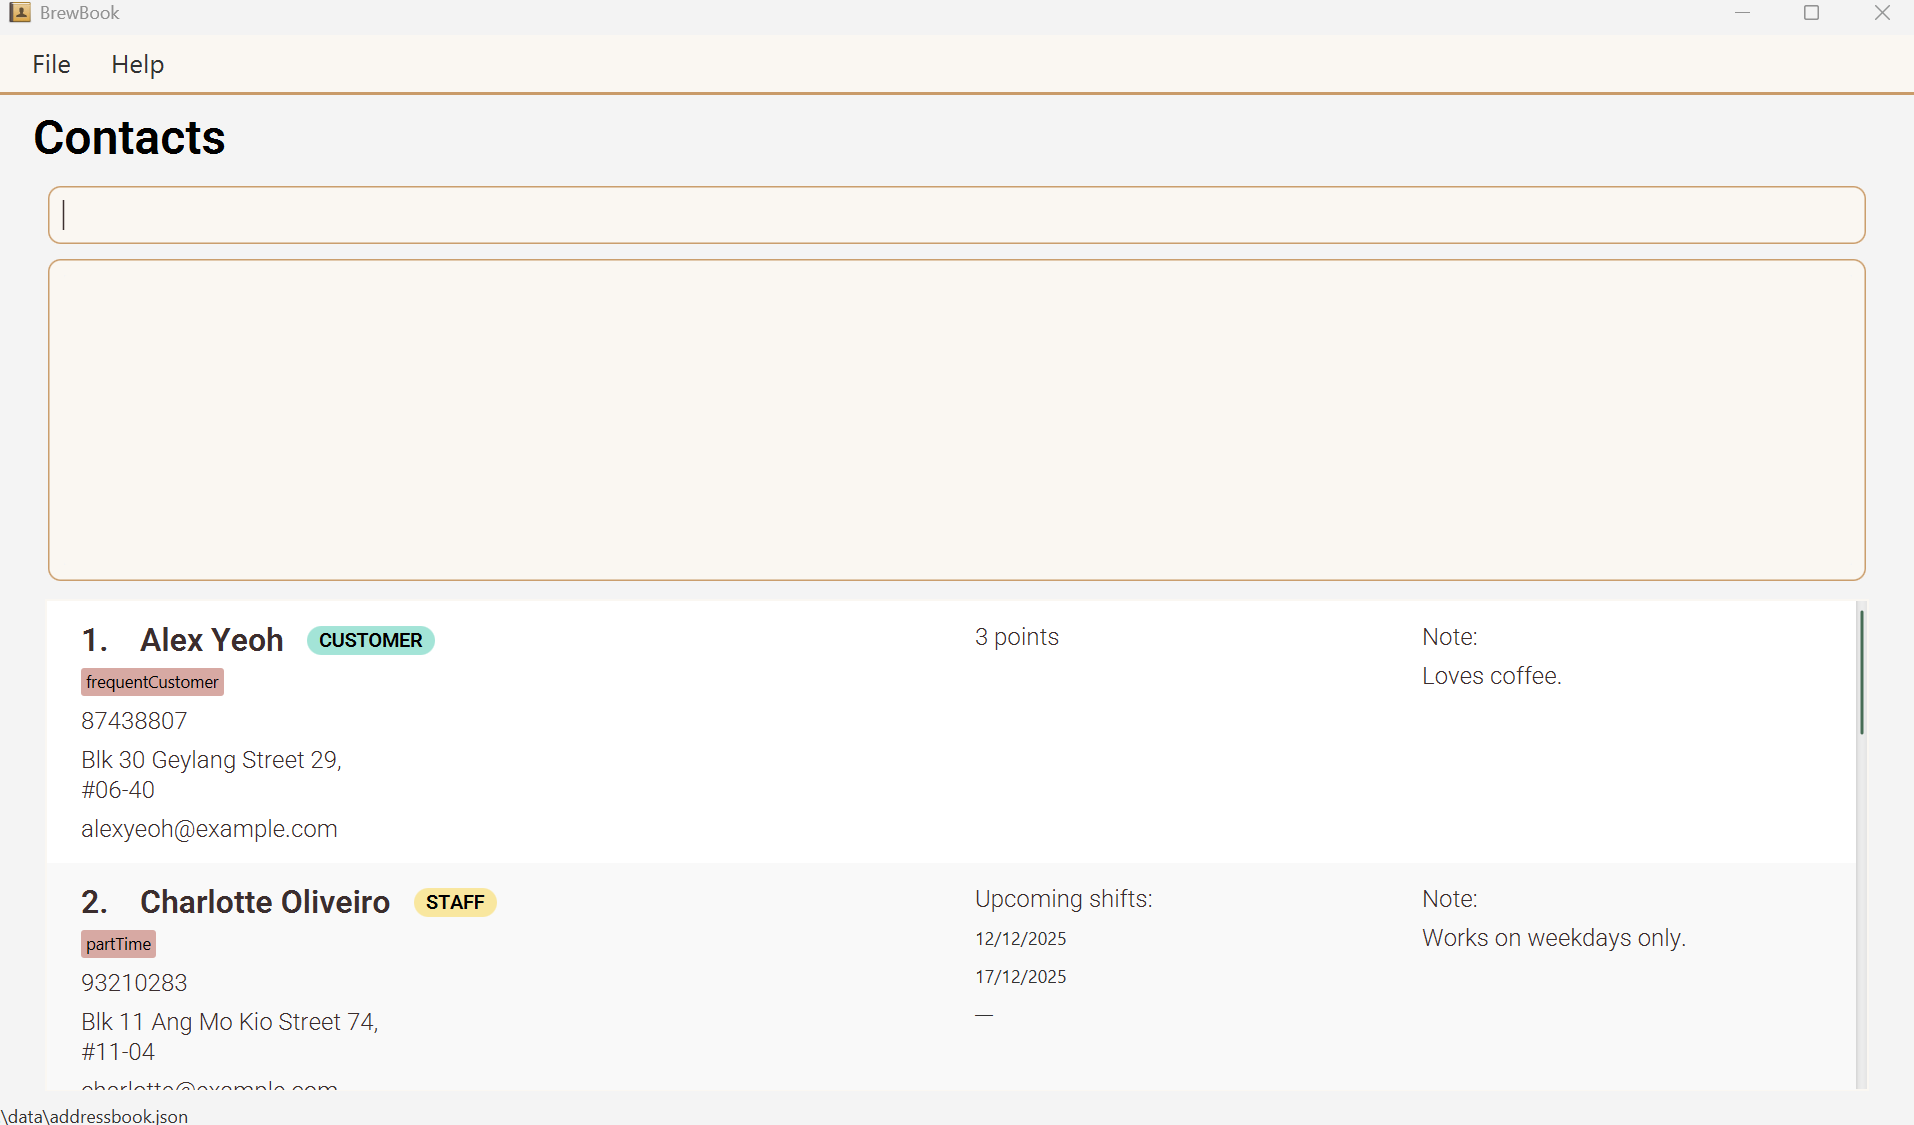
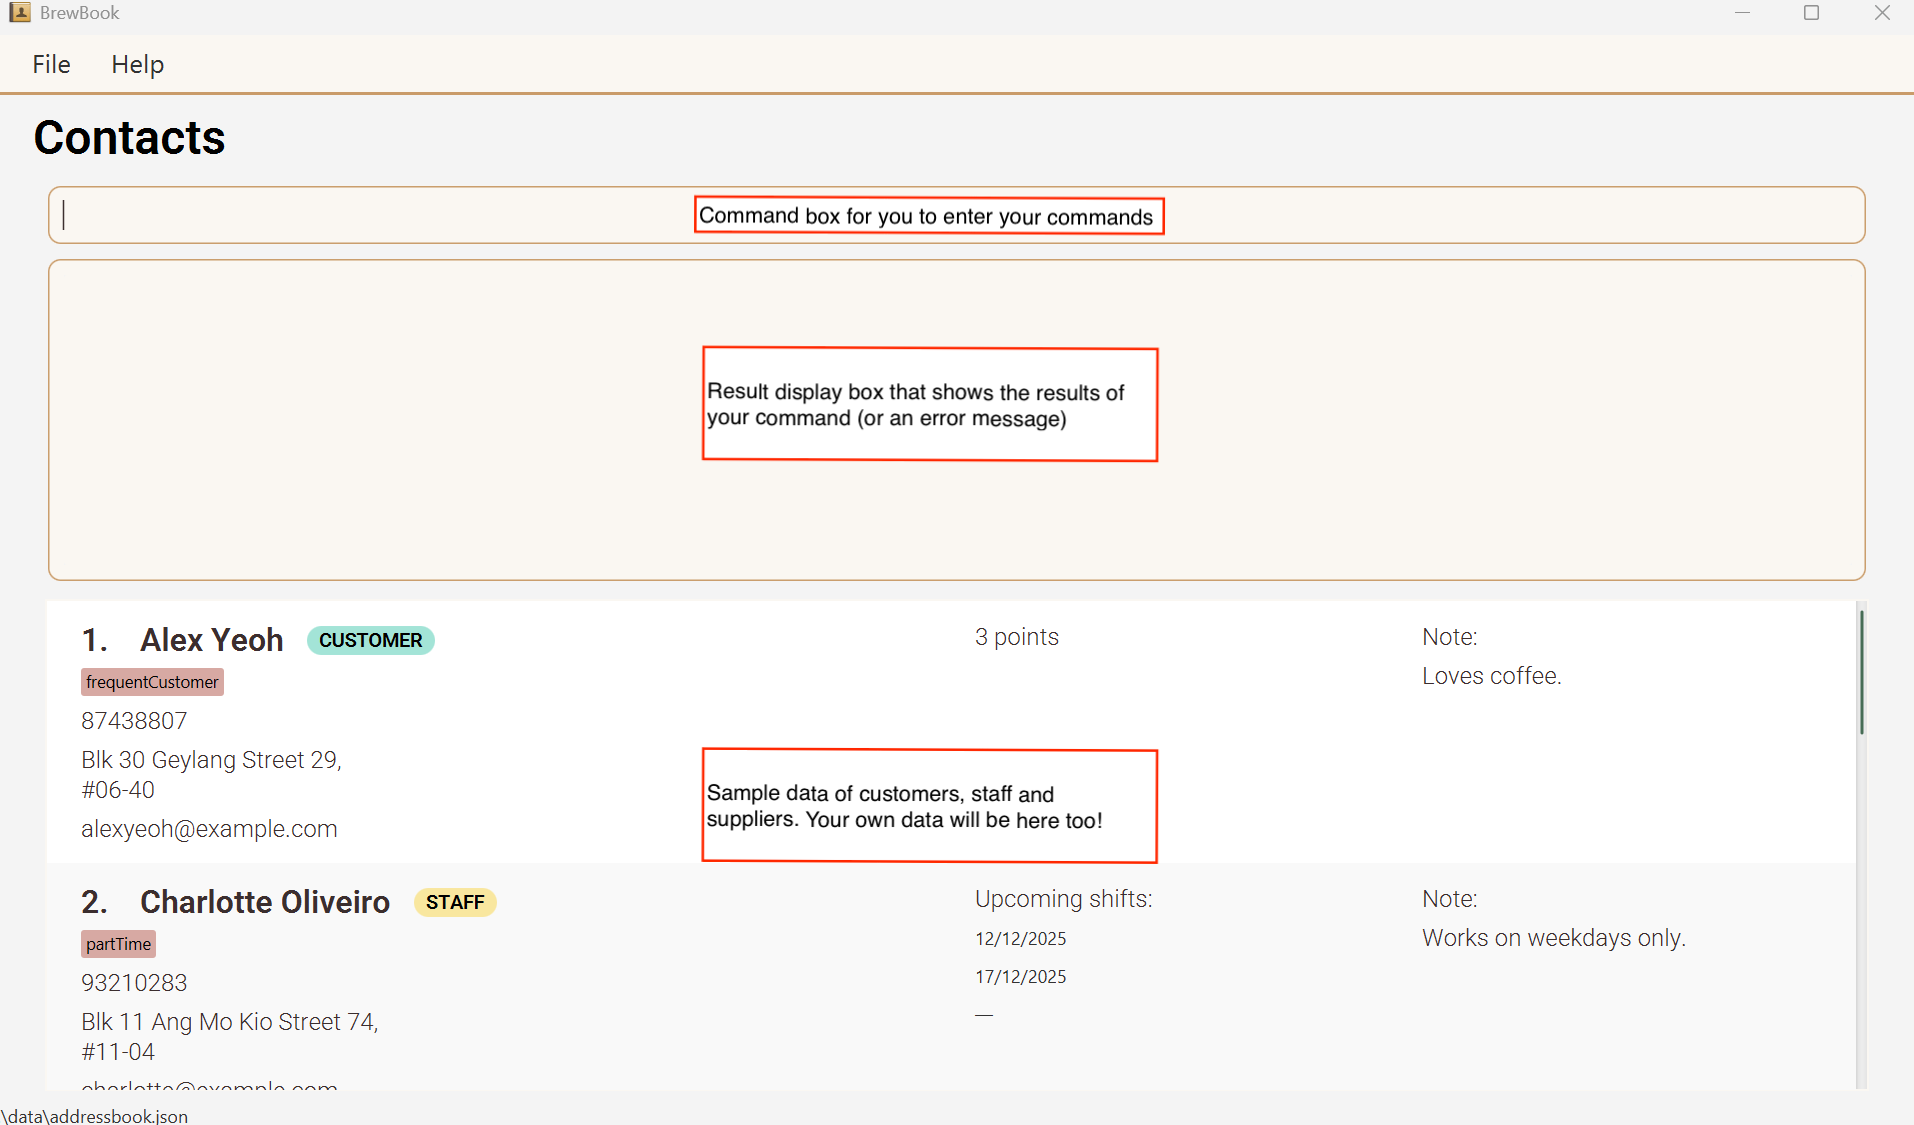
Update UG

diff --git a/docs/UserGuide.md b/docs/UserGuide.md
@@ -4,19 +4,20 @@ title: User Guide
 ---
 
 **Welcome to BrewBook! Your café’s command center.**
-<br>Running a small café means juggling suppliers, staff, and loyal customers. BrewBook helps you keep all these relationships organized in one place.
+<br>Running a small café means juggling suppliers, staff, and loyal customers. BrewBook helps you keep all these relationships organized in one place - no complex menus to click through, just type what you need.
 
 - **Suppliers**: Track who provides your beans, pastries, or equipment, and keep their details handy for quick reorders.
 - **Staff**: Store schedules, roles, and contact info so you can coordinate shifts effortlessly.
 - **Customers**: Record regulars’ preferences, loyalty points or note down catering contacts to strengthen relationships.
 
-Optimized for use via a Command Line Interface (CLI) while still having the benefits of a Graphical User Interface (GUI). If you can type fast, BrewBook can get your contact management tasks done faster than traditional GUI apps.
+**Why BrewBook is different**: Instead of clicking through multiple menus, you simply type short commands (like "add customer" or "list all"). Once you get the hang of it, this is much faster than traditional apps - especially if you're already comfortable typing.
 
 ---
 
 # Table of Contents
 [How to use this guide](#how-to-use-this-guide)<br>
 [Quick start](#quick-start)<br>
+
 [Features](#features)<br>
 [FAQ](#faq)<br>
 [Known issues / Troubleshooting](#known-issues--troubleshooting)<br>
@@ -27,7 +28,7 @@ Optimized for use via a Command Line Interface (CLI) while still having the bene
 This User Guide is designed to help you get the most out of BrewBook. You don't need to read it cover-to-cover,
 instead we recommend you use it like a reference:
 
-- **New users**: Start with the **Quick start** section. It walks you through installation, setup, and your very first commands.
+- **New users**: Start with the **Quick start** section. It walks you through installation, setup, and your very first commands. It also includes a quick tutorial to the Command-Line Interface (CLI). 
 - **Everyday use**: Jump to the **Features** section whenever you want to learn a specific command. Each command has:
     - A short description of what it does.
     - The exact format you need to type.
@@ -98,32 +99,58 @@ Let’s check whether it’s already installed on your computer.
 ---
 ## Step 3: Set up your BrewBook folder
 
-1. Create a new folder anywhere you like — for example:
+1. Create a new folder somehwere easy to remember — for example:
     - **Windows:** `C:\Users\Jean\Documents\BrewBook`
     - **macOS:** `/Users/Jean/Documents/BrewBook` or `~/Documents/BrewBook`
     - **Linux:** `/home/Jean/Documents/BrewBook`
+    - The above is the folder path if you go to your `Documents` folder and create a new folder called `BrewBook`. 
 2. Move the downloaded **`BrewBook.jar`** file into that folder.
    BrewBook will automatically save your data there each time you use it.
 
 ---
 ## Step 4: Open BrewBook
-
-1. Open your **Command Prompt** or **Terminal**
-2. Type `cd [folderpath]` to navigate to where your BrewBook.jar file exists.
-   > If your .jar file is in the`Users\(name)\Downloads` directory and you are currently in `Users\(name)`,
-   > you should type `cd Downloads` in the **Command Prompt** or **Terminal**.
+![Terminal.png](../../Downloads/Terminal.png)
+1. Open your **Command Prompt** or **Terminal**. The picture above is what your terminal should look like (though it may differ slightly depending on whether you're using a Mac or a Windows). 
+2. Type `cd` followed by the folder path where you saved the BrewBook app and press **Enter**. You'll know it worked when the folder name appears in your terminal prompt.
+   > If you created the folder in Documents, you should type `cd Documents/BrewBook` and press enter. 
+   > You can also copy the folder path from Step 3 and paste it after `cd`.
 3. Type `java -jar BrewBook.jar` and BrewBook will now open to its' landing page populated with sample data for your easy reference.
 
 ![Ui](images/Ui.png)
 
 Now you’re ready to start managing your café contacts!
 
----
-## Step 5: Try out a few simple commands
+# CLI Tutorial
+New to typing commands? Don't worry! This guide will teach you how to use BrewBook's command box. Once you learn these basics, you'll be able to manage contacts in seconds instead of minutes.
 
-BrewBook uses a **command box** — just type a command exactly as shown below and press **Enter**.
-Here are a few examples you can try:
+## What is BrewBook's CLI?
+BrewBook uses a Command Line Interface (CLI) through the command box at the top of the app window. Instead of clicking through menus, you simply type what you want to do and press Enter. If you can type fast, this is much quicker than traditional point-and-click apps!
 
+## Understanding Command Structure
+_The **command box** is at the top of the BrewBook window. This is where you key in your commands - just click on it, type your command, and press **Enter**!_
+BrewBook commands follow a simple pattern: `COMMAND PREFIX/VALUE PREFIX/VALUE ...`
+* `COMMAND` = what you want to do (e.g. add a new customer, delete a staff)
+* `PREFIX` = a field type (e.g. name, phone number, email)
+* `VALUE` = the value of the field indicated by the prefix just before it
+
+For example, to add a customer, you would use `add customer n/John Doe p/98765432 e/johnd@example.com a/311, Clementi Ave 2, #02-25`
+
+Let's break this down: 
+* `add customer` = COMMAND
+* `n/` = PREFIX for name
+* `John Doe` = VALUE for name
+* `p/` = PREFIX for phone
+* `98765432` = VALUE for phone
+
+You'll learn more about the allowed prefixes for each person type later on! Also, the order of the `PREFIX/VALUE`s do not matter - the given samples are just a guide. 
+
+## Understanding Responses
+_The **result display box** is right below the command box. This is where BrewBook replies to your inputs. There are 3 main types of responses that BrewBook can give: _
+* **Success Message**: "New person added: John Doe..." 
+* **Summary Message**: Shows a breakdown of your important dates and items supplied (e.g. "Important dates summarised: 12/12/2025...") 
+* **Error Message**: "Invalid command format! Format: ..."
+
+## Sample Commands
 | Action | What to Type                                                                                                                                  | What It Does                                          |
 |--------|-----------------------------------------------------------------------------------------------------------------------------------------------|-------------------------------------------------------|
 | Open help window | `help`                                                                                                                                        | Shows a short guide on using BrewBook                 |
@@ -180,12 +207,12 @@ Explore the [Features](#features) section below for a full list of commands and 
 * Command words are case-insensitive.
   e.g `list all` and `LIST all` are both valid ways to use the list command and will work successfully.
 
-* If you are using a PDF version of this document, be careful when copying and pasting commands that 1 multiple lines as space characters surrounding line-breaks may be omitted when copied over to the application.
+* If you are using a PDF version of this document, be careful when copying and pasting commands that span multiple lines as space characters surrounding line-breaks may be omitted when copied over to the application.
 </div>
 
 <div markdown="1" class="alert alert-warning">:exclamation: **Generic constraints for fields:**
 - Name must not exceed 48 characters.
-- Name does not allow special characters. You may spell them in full instead (i.e s/o -> son of)
+- Name does not allow special characters. You may spell them in full instead (e.g., s/o → son of, & → and).
 - Name must not be a duplicate (i.e must not already exist in BrewBook).
 - Phone number must not be less than 3 digits.
 - Days and Shifts date must be in the future.
@@ -233,8 +260,8 @@ Adds a customer to BrewBook and returns to `list all` view.
 </div>
 
 <div markdown="1" class="alert alert-warning">:exclamation: **Constraints:**
-- Points has a maximum value of 2147483647. Values higher than this will be interpreted as an invalid negative number.
-- Unable to add a person as multiple types. (i.e. If John is added as a customer, you cannot add him again as a supplier)
+- Points has a maximum value of 2147483647. Values higher than this will not be allowed.
+- Unable to add a person as multiple types. (i.e. If `John` is added as a customer, you cannot add another person called `John` again as a supplier). 
 </div>
 
 [Back to Features](#features)
@@ -289,7 +316,7 @@ Adds a supplier to the BrewBook and returns to `list all` view.
 * If a valid format but incorrect date for Days is inputted (e.g 29/2/2026, a non-leap year), then BrewBook will automatically find the next nearest valid date to replace it (28/2/2026).
 * If you need to add duplicate numbers for a supplier (i.e. Company contact hotline), this will be a valid input!
 * If you want to preserve past days records, you should make copies of the .json file and archive it before the day is deleted! See how to do it in FAQ.
-
+</div>
 <div markdown="1" class="alert alert-warning">:exclamation: **Constraint:**
 - Unable to add a person as multiple types. (i.e. If John is added as a supplier, you cannot add him again as a customer).
 </div>
@@ -326,7 +353,7 @@ Edits an existing person in BrewBook and returns to `list all` view.
 ![edit customer success](images/editResult.png)
 *Figure: Result from executing `edit 1 n/Alex` when the name was originally Alex Yeoh*
 
-**Format**: `edit INDEX [n/NAME] [p/PHONE] [e/EMAIL] [a/ADDRESS] [notes/NOTE] [points/POINTS] [shifts/SHIFT[, SHIFT]..] [items/ITEM[, ITEM]...] [days/DAY[, DAY]...] [t/TAG]…`
+**Format**: `edit INDEX [n/NAME] [p/PHONE] [e/EMAIL] [a/ADDRESS] [notes/NOTE] [points/POINTS] [shifts/SHIFT[, SHIFT]...] [items/ITEM[, ITEM]...] [days/DAY[, DAY]...] [t/TAG]...`
 
 **Examples**:
 *  `edit 1 p/91234567 e/johndoe@example.com` edits the phone number and email address of the 1st person to be `91234567` and `johndoe@example.com` respectively.
@@ -339,9 +366,9 @@ Edits an existing person in BrewBook and returns to `list all` view.
 
 <div markdown="1" class="alert alert-warning">:exclamation: **Constraints:**
 - The index must be a positive integer.
-- At least one optional fields must be provided.
+- At least one optional field must be provided.
 - Editing `tags`/`shifts`/`items`/`days`, the existing fields of the person will be removed (i.e adding is not cumulative).
-- For type specific tags like `shifts`, `items`, `days`, and `points`, you can only edit them if the person type corresponds to these tags. (i.e You can only edit `points` for a person of type customer, if person is of type staff it will not work)
+- For type specific tags like `shifts`, `items`, `days`, and `points`, you can only edit them if the person type corresponds to these tags (i.e You can only edit `points` for a person of type customer, if person is of type staff it will throw an error message telling you that `/points` is invalid for this contact type).
 </div>
 
 [Back to Features](#features)
@@ -385,6 +412,11 @@ Finds contacts whose fields contain the given keywords using AND search.
 [Back to Features](#features)
 
 ---
+<div markdown="1" class="alert alert-warning">:exclamation: **Constraints:**
+- Real-World Impact: Deleting a contact by mistake means you might lose all your saved data. Always double-check the contact name before deleting. 
+- This action cannot be undone. We recommend that you make frequent backups to guard against accidental deletes (see FAQ Q3).
+</div>
+
 ## Deleting contacts : `delete`
 
 Deletes the specified person or people from BrewBook.
@@ -396,7 +428,7 @@ Deletes the specified person or people from BrewBook.
 
 **Examples**:
 * `list all` followed by `delete 2` deletes the 2nd person in the BrewBook.
-* `find alex` followed by `delete 1, 2` deletes the 1st & 2nd person in the BrewBook following the index of the new list.
+* `find alex` followed by `delete 1, 2` deletes the 1st and 2nd person in the BrewBook of the new list.
 
 <div markdown="1" class="alert alert-success">:bulb: **Tip:**
 - If you accidentally type the same number (i.e `delete 2, 2`), don't worry! BrewBook will recognise that you only want to delete contact number 2 and only delete 2.
@@ -452,6 +484,10 @@ Displays all staff's shift and supplier's days.
 [Back to Features](#features)
 
 ---
+<div markdown="1" class="alert alert-warning">:exclamation: **Constraints:**
+- This Deletes Everything: All your customers' loyalty points, staff schedules, and supplier information will be permanently erased. 
+- This action cannot be undone. Make a backup first if you still want to keep your data(see FAQ Q3).
+</div>
 ## Clearing all entries : `clear`
 
 ![clear](images/clearResult.png)
@@ -463,11 +499,6 @@ Clears all entries from the BrewBook.
 
 **Example**:
 - `clear` deletes all entries from the BrewBook.
-
-<div markdown="1" class="alert alert-warning">:exclamation: **Constraints:**
-- The clear command deletes all contacts in BrewBook.
-- This action cannot be undone.
-</div>
 
 [Back to Features](#features)
 
@@ -505,58 +536,45 @@ BrewBook data are saved automatically as a JSON file `[JAR file location]/data/b
 --------------------------------------------------------------------------------------------------------------------
 # FAQ
 
-**Q**: How do I transfer my data to another computer?<br>
-**A**: You can transfer your data by following the steps below.
+**Q1**: Where is my data stored?<br>
+**Ans**: BrewBook stores data in a file called `brewbook.json`. This is located in the folder called `data`, in the same folder where you placed your `BrewBook.jar` file while setting up.
+![DataFile.png](images/DataFile.png)
+
+**Q2**: How do I transfer my data to another computer?<br>
+**Ans**: You can transfer your data by following the steps below.
 1. Install BrewBook on the new computer.
 2. Launch it once to generate a fresh data file.
-3. Locate the data file on your old computer (usually in the BrewBook home folder).
-4. Copy that file to the new computer and overwrite the newly created one.
+3. Locate `brewbook.json` on your old computer (refer to _Q1_ for more details on how to find it).
+4. Copy that file to the new computer in the `data` folder.
 
-<a id="archive-data"></a>
-**Q**: How do I archive my data since shifts and days get auto-deleted?<br>
-**A**: You can archive your data by following the steps below.
-1. Create an archive folder to place this data file.
-2. Locate the data file called brewbook.json in your computer (usually in the folder called `data` where you placed your BrewBook file).
-3. Copy that file into the archive folder you previously created.
+**Q3**: How do I backup/archive my data since shifts and days get auto-deleted?<br>
+**Ans**: You can archive your data by following the steps below.
+1. Locate `brewbook.json` (refer to _Q1_ for more details on how to find it).
+2. Create an archive folder to place `brewbook.json`. Copy `brewbook.json` into the folder. **OR** Save `brewbook.json` to a cloud drive.
 
+**Q4**: What happens if I accidentally run `clear`?<br>
+**Ans**: All data will be permanently deleted. There is no undo. To prevent data loss, backup your data regularly (refer to _Q3_ for more details).
 
-**Q**: What happens if I accidentally run `clear`?<br>
-**A**: All data will be permanently deleted. There is no undo.
-**To prevent data loss:**
-- Before using `clear`, locate your data file and make a backup copy.
-- Store the backup in a safe folder or cloud drive.
+**Q5**: Can I undo a delete command?<br>
+**Ans**: No. Once an entry is deleted using `delete`, it cannot be recovered. To prevent data loss, backup your data regularly (refer to _Q3_ for more details).
 
-
-**Q**: Where is my data stored?<br>
-**A**: BrewBook stores data in a local file inside the same folder as your BrewBook.jar.
-
-
-**Q**: Can I undo a delete command?<br>
-**A**: No. Once an entry is deleted using `delete`, it cannot be recovered.
-**To avoid accidental deletes:**
-- Back up/archive your data file regularly.
-
-
-**Q**: Why isn’t my command working?<br>
-**A**: Please check the following.
+**Q6**: Why isn’t my command working?<br>
+**Ans**: Please check the following.
 - Check that your command follows the correct format.
 - Make sure required fields like `n/`, `p/`, or `e/` are included.
 - Use `help` to view all available commands and examples on how to use them along with their constraints.
 
+**Q7**: Can I add multiple tags or items at once?<br>
+**Ans**: Yes. Please refer to the [Add Command](#adding-a-customer-add-customer) sections to see how to do it.
 
-**Q**: Can I add multiple tags or items at once?<br>
-**A**: Yes. Please refer to add commands to see how to do it.
-
-
-**Q**: What date format should I use?<br>
-**A**: Use `d/M/yyyy` for all date inputs.
+**Q8**: What date format should I use?<br>
+**Ans**: Use `d/M/yyyy` for all date inputs.
 **Examples:**
 - `shifts/11/12/2025`
 - `days/9/12/2025, 16/12/2025`
 
-
-**Q**: Can I use BrewBook on mobile?<br>
-**A**: No. BrewBook is currently designed for desktop use only.
+**Q9**: Can I use BrewBook on mobile?<br>
+**Ans**: No. BrewBook is currently designed for desktop use only.
 
 [Back to Table of Contents](#table-of-contents)
 
@@ -566,7 +584,7 @@ BrewBook data are saved automatically as a JSON file `[JAR file location]/data/b
 1. **When using multiple screens**, if you move the application to a secondary screen, and later switch to using only the primary screen, the GUI will open off-screen. The remedy is to delete the `preferences.json` file (located in same folder as BrewBook.jar) created by the application before running the application again.
 2. **If you minimize the Help Window** and then run the `help` command (or use the `Help` menu, or the keyboard shortcut `F1`) again, the original Help Window will remain minimized, and no new Help Window will appear. The remedy is to manually restore the minimized Help Window.
 3. **Once you select a contact card**, you will not be able to unselect it.
-4. **BrewBook does not accept names with special symbols** such as '/', if you require, you may spell out the name in full as we allow a maximum of 48 number of character for name.
+4. **BrewBook does not accept names with special symbols** such as '/', if you require, you may spell out the name in full as we allow a maximum of 48 characters for `name` fields.
 
 [Back to Table of Contents](#table-of-contents)
 
@@ -578,7 +596,7 @@ Action | Format, Examples
 **Add customer** | `add customer n/NAME p/PHONE e/EMAIL a/ADDRESS [points/POINTS] [notes/NOTES] [t/TAG]...` <br> e.g., `add customer n/Betsy Crowe e/betsycrowe@example.com a/Newgate Rd p/1234567 notes/Loves chocolate points/3 t/allergy`
 **Add staff** | `add staff n/NAME p/PHONE e/EMAIL a/ADDRESS [shifts/SHIFTS[, SHIFTS]...] [notes/NOTES] [t/TAG]...` <br> e.g., `add staff n/Ah Hock p/98765432 e/ahhock@example.com a/123 Clementi Ave 3 shifts/12/4/2025 notes/can only do weekdays t/partTime`
 **Add supplier** | `add supplier n/NAME p/PHONE e/EMAIL a/ADDRESS [items/ITEMS[, ITEMS]...] [days/DAYS[, DAYS]...] [notes/NOTES] [t/TAG]...` <br> e.g., `add supplier n/James Ho p/22224444 e/jamesho@example.com a/123, Clementi Rd, 1234665 items/Coffee days/28/10/2025`
-**List** | `list [all/customer/staff/supplier]`
+**List** | `list <all \| customer \| staff \| supplier>`
 **Sort** | `sort name o/asc`
 **Summary** | `summary`
 **Delete** | `delete INDEX[, INDEX, ...]`<br> e.g., `delete 3, 2, 1`
